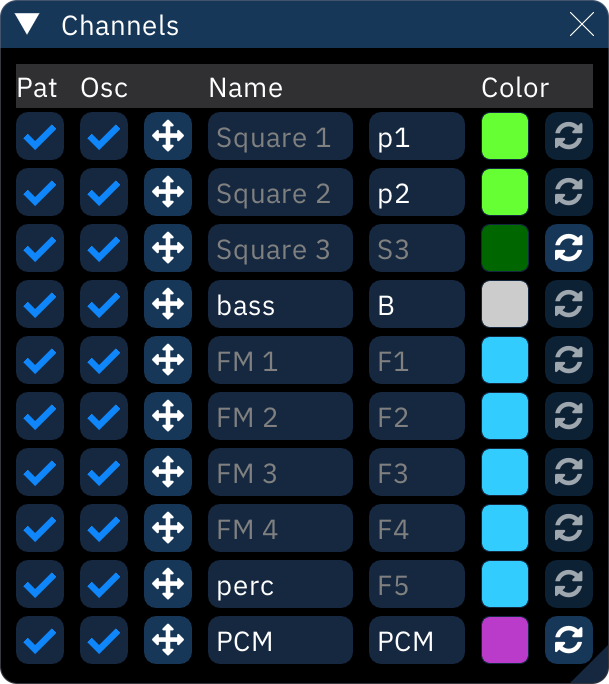
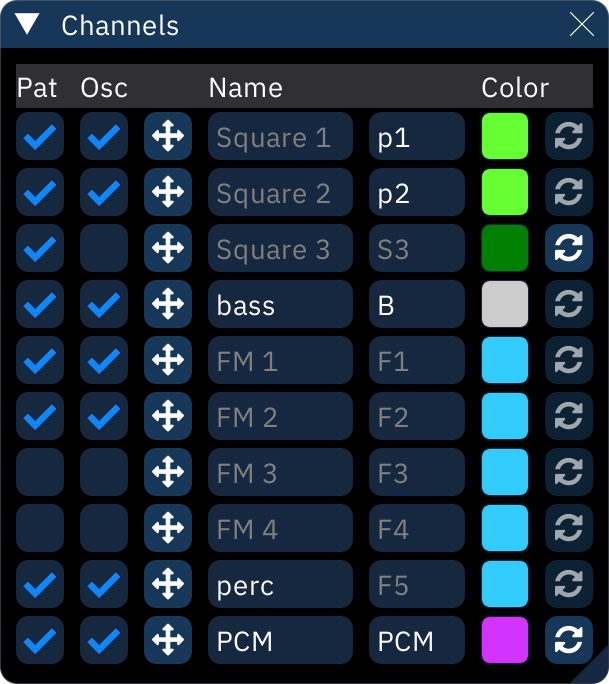
More docs updates.
Shouldn't there be keybinds for the "Noise gate" and "Copy selection to new sample" features?

diff --git a/doc/2-interface/keyboard.md b/doc/2-interface/keyboard.md
@@ -263,4 +263,9 @@ the keys in the "Global hotkeys" section can be used in any window, although not
 | Sample editor: Toggle auto-zoom                        | `Ctrl-0`         |
 | Sample editor: Create instrument from sample           | —                |
 | Sample editor: Set loop to selection                   | `Ctrl-L`         |
+| Sample editor: Trim to the end of the loop             | —                |
+| Sample editor: Trim around loop points                 | —                |
+<!--
 | Sample editor: Copy selection to new sample            | —                |
+| Sample editor: Noise gate                              | —                |
+-->

diff --git a/doc/6-sample/README.md b/doc/6-sample/README.md
@@ -137,6 +137,8 @@ in there, you can modify certain data pertaining to your sample, such as the:
 - **Apply silence**: reduces amplitude of selection to 0.
 - **Delete**: removes selection.
 - **Trim**: removes all but selection.
+- **Noise Gate**: trims "silent" areas from start and end of selection.
+  - **Threshold (dB)**: the threshold in decibels below which the sample is considered "silent".
 - **Reverse**: reverses direction of selection.
 - **Invert**: flips selection "vertically".
 - **Signed/unsigned exchange**: reinterprets selection data as being of the opposite sign.
@@ -169,6 +171,8 @@ in the sample viewer:
   - **paste (replace)**: replaces the selection with the sample clipboard.
   - **paste (mix)**: mixes the sample clipboard into the existing sample, beginning at the start of the selection.
   - **set loop to selection**: changes loop region to match selection.
+  - **trim to the end of the loop**: deletes everything after the loop region.
+  - **trim around loop points**: deletes everything before and after the loop region.
   - **create wavetable from selection**: copies the selection into a new wavetable entry.
   - **copy selection to new sample** copies the selection into a new sample.
 

diff --git a/doc/1-intro/glossary.md b/doc/1-intro/glossary.md
@@ -137,6 +137,8 @@
 **square wave**: a wave consisting of only two values, high and low, with equal durations within the wave's period.
 - this is equivalent to a pulse wave with a duty of 50%.
 
+**SSG-EG**: Software-controlled Sound Generator - Envelope Generator. a feature of all Yamaha OPN series sound chips. it is the AY-3-8910/YM2149 envelope generator applied to each individual FM operator. more information can be found in the documentation for each chip that has it.
+
 **supersaw**: a sound made up of multiple saw waves at slightly different frequencies to achieve a chorusing effect.
 
 **tap**: a specified bit location within an LFSR.